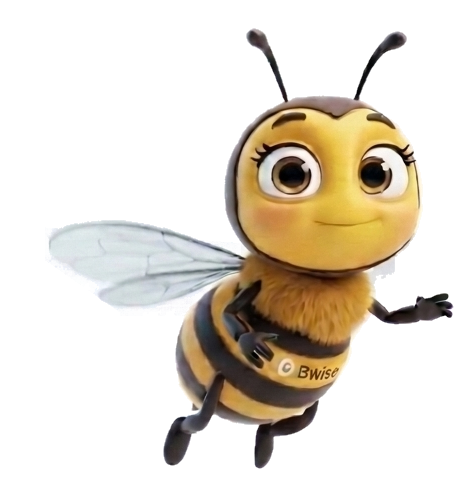
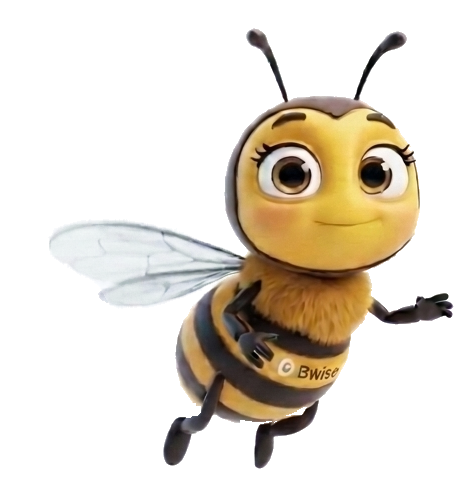
fix(bee): refine 3D bee alpha cutout and remove flat SVG wing; update web tech stack

diff --git a/src/components/hive/BwiseBeeCharacter.tsx b/src/components/hive/BwiseBeeCharacter.tsx
@@ -71,37 +71,6 @@ export const BwiseBeeCharacter: React.FC<BwiseBeeCharacterProps> = ({
           <div className="absolute inset-4 rounded-full bg-amber-400/35 blur-2xl animate-pulse pointer-events-none" />
         )}
 
-        {/* Animated 60fps Translucent Fluttering Wing Layer (positioned behind the bee's left shoulder) */}
-        <svg
-          viewBox="0 0 300 300"
-          className="absolute inset-0 w-full h-full pointer-events-none overflow-visible"
-          style={{
-            animationDuration: isFlying ? '0.035s' : '0.065s',
-          }}
-        >
-          <defs>
-            <linearGradient id="bwiseWingGrad" x1="0%" y1="0%" x2="100%" y2="100%">
-              <stop offset="0%" stopColor="rgba(255, 255, 255, 0.72)" />
-              <stop offset="60%" stopColor="rgba(224, 242, 254, 0.38)" />
-              <stop offset="100%" stopColor="rgba(186, 230, 253, 0.15)" />
-            </linearGradient>
-          </defs>
-          <g className="animate-wing-left">
-            <path
-              d="M 118 145 C 55 100, 12 108, 18 138 C 22 162, 68 172, 118 158 Z"
-              fill="url(#bwiseWingGrad)"
-              stroke="rgba(255,255,255,0.65)"
-              strokeWidth="1.5"
-            />
-            <path
-              d="M 115 150 C 72 132, 42 134, 26 142"
-              stroke="rgba(255,255,255,0.5)"
-              strokeWidth="1"
-              fill="none"
-            />
-          </g>
-        </svg>
-
         {/* Studio 3D Rendered Bwise Bee Character with complete legs, feet, and translucent wings */}
         <img
           src={bwiseBeeFullImg}

diff --git a/src/data/servicesData.ts b/src/data/servicesData.ts
@@ -102,18 +102,18 @@ export interface PriorityService {
   category: string;
   categorySlug: MainCategorySlug;
   iconName:
-    | 'Lightbulb'
-    | 'Search'
-    | 'Megaphone'
-    | 'MessageSquare'
-    | 'Cog'
-    | 'FileCheck'
-    | 'TrendingUp'
-    | 'Cpu'
-    | 'Monitor'
-    | 'Smartphone'
-    | 'Tag'
-    | 'PenTool';
+  | 'Lightbulb'
+  | 'Search'
+  | 'Megaphone'
+  | 'MessageSquare'
+  | 'Cog'
+  | 'FileCheck'
+  | 'TrendingUp'
+  | 'Cpu'
+  | 'Monitor'
+  | 'Smartphone'
+  | 'Tag'
+  | 'PenTool';
   /**
    * Coordinates in the S2 / S3 Beehive Honeycomb Grid:
    * Row 0 (top 4): Digital Strategy Ideas, Search Engine Optimisation, Social Media Advertising, Social Media Management
@@ -1220,7 +1220,7 @@ export const PRIORITY_SERVICES: PriorityService[] = [
       ],
       modernTechSummary:
         'Cloud-native frontend and full-stack architecture built for speed, accessibility, and developer velocity.',
-      techStack: ['React 19 / Next.js', 'TypeScript', 'Tailwind CSS', 'GSAP & Three.js', 'Supabase / PostgreSQL', 'Vercel Edge Network'],
+      techStack: ['React 19 / Next.js', 'TypeScript', 'Tailwind CSS', 'Angular', 'Supabase / PostgreSQL', 'ASP .NET Core', 'Vercel Edge Network'],
       ratingScore: '5.0 / 5.0 Web Engineering Score',
       previousProjects: [
         {
